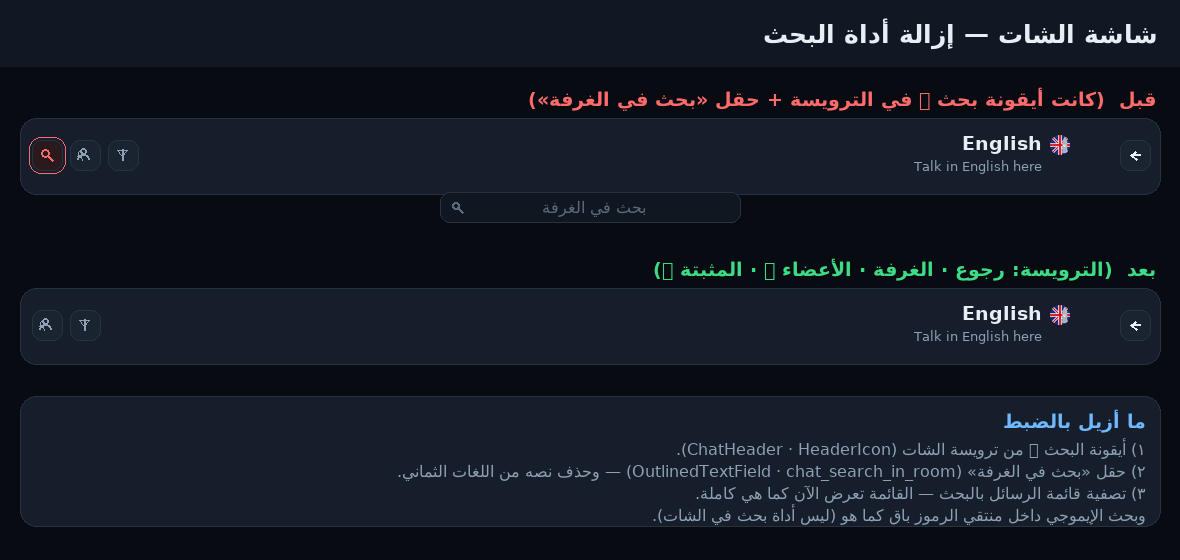
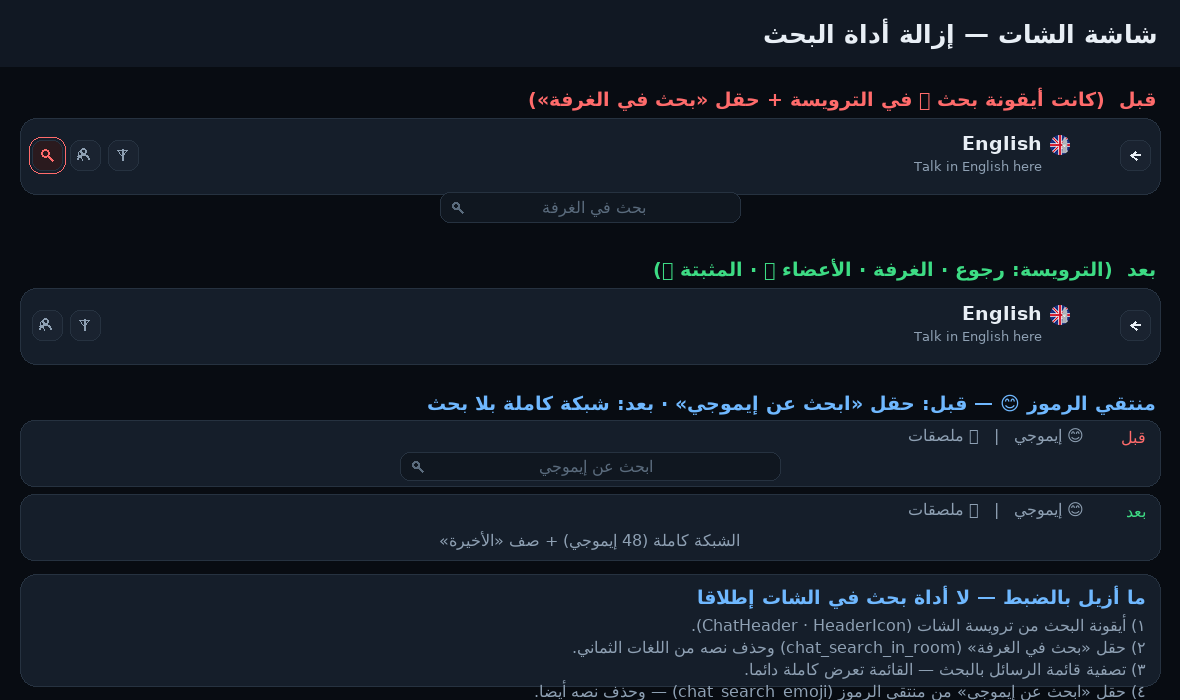
Chat: remove the emoji-picker search field too (no search anywhere in chat)
- EmojiStickerSheet no longer renders the 'search emoji' text field and no longer
  filters the emoji grid; the full grid plus the 'recent' row are shown.
- chat_search_emoji string removed from all 8 languages.
- check_chat_no_search.py now covers the picker as well, spec note extended, and the
  before/after preview shows both the header and the emoji picker.

diff --git a/android/app/src/main/java/com/addonstation/mobile/ui/chat/ChatSheets.kt b/android/app/src/main/java/com/addonstation/mobile/ui/chat/ChatSheets.kt
@@ -85,12 +85,8 @@ fun EmojiStickerSheet(
     val sheetState = rememberModalBottomSheetState(skipPartiallyExpanded = true)
     var tab by remember { mutableStateOf(0) }
     var selectedPack by remember { mutableStateOf<String?>(null) }
-    var search by remember { mutableStateOf("") }
     val recentRaw by container.prefs.recentEmojis.collectAsState(initial = "")
     val recent = recentRaw.split(' ').filter { it.isNotBlank() }
-
-    val filtered = if (search.isBlank()) ChatViewModel_Emojis
-    else ChatViewModel_Emojis.filter { it.contains(search) }
 
     ModalBottomSheet(
         onDismissRequest = onDismiss,
@@ -104,13 +100,6 @@ fun EmojiStickerSheet(
             }
             Spacer(Modifier.height(10.dp))
             if (tab == 0) {
-                androidx.compose.material3.OutlinedTextField(
-                    value = search,
-                    onValueChange = { search = it },
-                    placeholder = { Text(stringResource(R.string.chat_search_emoji), style = AppText.bodySmall) },
-                    singleLine = true,
-                    modifier = Modifier.fillMaxWidth(),
-                )
                 if (recent.isNotEmpty()) {
                     Text(stringResource(R.string.chat_recent), style = AppText.tiny, color = AppColors.Muted)
                     LazyRow(horizontalArrangement = Arrangement.spacedBy(6.dp)) {
@@ -138,7 +127,7 @@ fun EmojiStickerSheet(
                     ),
                     contentPadding = PaddingValues(vertical = 6.dp),
                 ) {
-                    items(filtered) { emoji ->
+                    items(ChatViewModel_Emojis) { emoji ->
                         Text(
                             emoji,
                             style = AppText.welcomeName,

diff --git a/tools/check_chat_no_search.py b/tools/check_chat_no_search.py
@@ -1,12 +1,12 @@
 #!/usr/bin/env python3
 # -*- coding: utf-8 -*-
-"""فحص إزالة أداة البحث من داخل الشات (طلب المستخدم) — ويمنع رجوعها.
+"""فحص إزالة أدوات البحث من داخل الشات (طلب المستخدم) — ويمنع رجوعها.
 
 يفشل إذا:
   • ظهرت أيقونة البحث أو معامل onSearch في ترويسة الشات.
   • بقي حقل «بحث في الغرفة» أو تصفية الرسائل بالبحث في ChatScreen.kt.
-  • بقي مفتاح chat_search_in_room في أي ملف لغة (٨ لغات).
-  • حُذف بحث الإيموجي بالخطأ (يجب أن يبقى داخل منتقي الرموز).
+  • بقي حقل «ابحث عن إيموجي» أو تصفية القائمة في منتقي الرموز (ChatSheets.kt).
+  • بقي مفتاح chat_search_in_room أو chat_search_emoji في أي ملف لغة (٨ لغات).
 """
 import io
 import glob
@@ -42,19 +42,23 @@ for needle, label in (
 if re.search(r"messages\.filter\s*\{", chat):
     problems.append("ChatScreen.kt ما زال يصفّي الرسائل (فلترة بحث)")
 
-# 3) المفتاح محذوف من كل ملفات اللغات
+# 3) بحث منتقي الرموز أيضاً أُزيل
+for needle, label in (
+    ("search", "حالة/حقل البحث"),
+    ("filtered", "تصفية قائمة الإيموجي"),
+    ("chat_search_emoji", "نص «ابحث عن إيموجي»"),
+):
+    if needle in sheets:
+        problems.append(f"ChatSheets.kt (منتقي الرموز) ما زال يحوي {label}")
+
+# 4) المفتاحان محذوفان من كل ملفات اللغات
 left = []
 for path in sorted(glob.glob(os.path.join(RES, "values*", "strings.xml"))):
     text = io.open(path, encoding="utf-8").read()
-    if "chat_search_in_room" in text:
+    if "chat_search_in_room" in text or "chat_search_emoji" in text:
         left.append(os.path.basename(os.path.dirname(path)))
 if left:
-    problems.append("مفتاح chat_search_in_room باقٍ في: " + " · ".join(left))
-
-# 4) بحث الإيموجي باقٍ (لم نحذف أكثر من المطلوب)
-if "chat_search_emoji" not in sheets and "chat_search_emoji" not in io.open(
-        os.path.join(RES, "values", "strings.xml"), encoding="utf-8").read():
-    problems.append("بحث الإيموجي حُذف بالخطأ — يجب أن يبقى داخل منتقي الرموز")
+    problems.append("مفتاح بحث باقٍ في: " + " · ".join(left))
 
 print("الفحص | النتيجة")
 print("-" * 46)
@@ -62,8 +66,8 @@ rows = [
     ("لا أيقونة بحث في ترويسة الشات", "Icons.Filled.Search" not in chat),
     ("لا حقل «بحث في الغرفة»", "chat_search_in_room" not in chat),
     ("لا تصفية رسائل بالبحث", not re.search(r"messages\.filter\s*\{", chat)),
-    ("المفتاح محذوف من 8 لغات", not left),
-    ("بحث الإيموجي باقٍ (منتقي الرموز)", "chat_search_emoji" in sheets),
+    ("منتقي الرموز بلا بحث", not any(x in sheets for x in ("search", "filtered"))),
+    ("المفتاحان محذوفان من 8 لغات", not left),
 ]
 for name, ok in rows:
     print(f"{name:<38} | {'✅' if ok else '❌'}")
@@ -74,4 +78,4 @@ if problems:
         print("✗", p)
     print(f"\n✗ عدد المشاكل: {len(problems)}")
     sys.exit(1)
-print("🟢 أداة البحث أُزيلت من الشات بالكامل (ترويسة وحقل وتصفية)، وبحث الإيموجي باقٍ.")
+print("🟢 لا أداة بحث في الشات إطلاقاً: لا في الترويسة ولا في الرسائل ولا في منتقي الرموز — وبلا أي نص بحث في اللغات الثماني.")

diff --git a/tools/preview_chat_search_removed.py b/tools/preview_chat_search_removed.py
@@ -97,7 +97,7 @@ def header(img, d, f_name, f_desc, x, y, w, title, desc, icons, highlight=None):
 
 
 def main() -> int:
-    W, H = 1180, 560
+    W, H = 1180, 700
     img = Image.new("RGB", (W, H), BG)
     d = ImageDraw.Draw(img)
     f_big = ImageFont.truetype(FONT_BOLD, 25)
@@ -125,16 +125,35 @@ def main() -> int:
            "English", "Talk in English here",
            ["members", "pin"])
 
-    y = 396
-    d.rounded_rectangle((20, y, W - 20, y + 130), radius=16, fill=CARD, outline=BORDER)
-    d.text((W - 34, y + 14), rtl("ما أُزيل بالضبط"), font=f_h, fill=BLUE, anchor="ra")
+    # منتقي الرموز: قبل (بحقل البحث) ← بعد (بلا حقل)
+    d.text((W - 24, 392), rtl("منتقي الرموز 😊 — قُبل: حقل «ابحث عن إيموجي» · بعد: شبكة كاملة بلا بحث"),
+           font=f_h, fill=BLUE, anchor="ra")
+    py = 420
+    for label, with_search, accent in (("قبل", True, RED), ("بعد", False, GREEN)):
+        d.rounded_rectangle((20, py, W - 20, py + 66), radius=14, fill=CARD, outline=BORDER)
+        d.text((W - 34, py + 8), rtl(label), font=f_small, fill=accent, anchor="ra")
+        d.text((W - 96, py + 6), rtl("😊 إيموجي   |   🎨 ملصقات"), font=f_small, fill=MUTED, anchor="ra")
+        if with_search:
+            d.rounded_rectangle((W // 2 - 190, py + 32, W // 2 + 190, py + 60), radius=10,
+                                fill="#101720", outline=BORDER)
+            d.text((W // 2 + 6, py + 46), rtl("ابحث عن إيموجي"), font=f_small, fill=DIM, anchor="mm")
+            mg = mini_icon("search", 14, "#5A6B7D")
+            img.paste(mg, (W // 2 - 180, py + 39), mg)
+        else:
+            d.text((W // 2, py + 46), rtl("الشبكة كاملة (48 إيموجي) + صف «الأخيرة»"),
+                   font=f_small, fill=MUTED, anchor="mm")
+        py += 74
+
+    y = py + 6
+    d.rounded_rectangle((20, y, W - 20, y + 112), radius=16, fill=CARD, outline=BORDER)
+    d.text((W - 34, y + 12), rtl("ما أُزيل بالضبط — لا أداة بحث في الشات إطلاقاً"), font=f_h, fill=BLUE, anchor="ra")
     for i, line in enumerate([
-        "١) أيقونة البحث 🔍 من ترويسة الشات (ChatHeader · HeaderIcon).",
-        "٢) حقل «بحث في الغرفة» (OutlinedTextField · chat_search_in_room) — وحُذف نصه من اللغات الثماني.",
-        "٣) تصفية قائمة الرسائل بالبحث — القائمة تُعرض الآن كما هي كاملة.",
-        "وبحث الإيموجي داخل منتقي الرموز باقٍ كما هو (ليس أداة بحث في الشات).",
+        "١) أيقونة البحث من ترويسة الشات (ChatHeader · HeaderIcon).",
+        "٢) حقل «بحث في الغرفة» (chat_search_in_room) وحُذف نصه من اللغات الثماني.",
+        "٣) تصفية قائمة الرسائل بالبحث — القائمة تُعرض كاملة دائماً.",
+        "٤) حقل «ابحث عن إيموجي» من منتقي الرموز (chat_search_emoji) — وحُذف نصه أيضاً.",
     ]):
-        d.text((W - 34, y + 44 + i * 22), rtl(line), font=f_small, fill=MUTED, anchor="ra")
+        d.text((W - 34, y + 42 + i * 22), rtl(line), font=f_small, fill=MUTED, anchor="ra")
 
     img.save(OUT)
     print(f"✓ {OUT} ({W}×{H})")

diff --git a/docs/specs/AddonStation-Chat-Admin-Spec.md b/docs/specs/AddonStation-Chat-Admin-Spec.md
@@ -224,6 +224,10 @@ Limits (**[ORIGINAL]**):
 ### C6. Emoji + Sticker picker (bottom sheet)
 - Two tabs: **Emoji** and **Stickers**.
 - Emoji tab: grid of emojis (the original list of 48: 😀 😃 😄 😍 😂 🥰 😎 🤣 😅 😇 😉 🤔 😴 🤯 🥳 😢 😭 😡 🤩 👍 👎 👏 🙏 💪 🔥 ❤ 💔 💎 👑 🍃 ⭐ 🎮 🕹 🧊 🏆 ⚽ 🚀 ✨ 🎉 💬 ✅ ❌ 😊 😁 🤝 🧡 💛 💜). Add a search field and "recent" row **[NEW]**.
+
+> تحديث بناءً على طلب المستخدم: **حُذفت كل أدوات البحث من الشات** — أيقونة 🔍 في
+> الترويسة، وحقل «بحث في الغرفة»، وتصفية الرسائل، وحقل «ابحث عن إيموجي» في منتقي
+> الرموز (الشبكة تُعرض كاملة، وصف «الأخيرة» باقٍ). ولا يبقى أي نص بحث في اللغات الثماني.
 - Stickers tab: pack icons row at the bottom (each pack shows its first sticker as icon), grid of stickers of the selected pack above (4 columns). Tap a sticker = send immediately. **[ORIGINAL]**
 - The 5 original packs (names and counts): `meme` (47), `Minecraft Memes1` (21), `Minecraft Memes2` (87), `Minecraft Memes3` (20), `Minecraft Movie` (6). Stickers are 128–256 px WEBP/PNG/GIF. Replace with your own art before publishing.
 - New packs are added by the admin from the panel (Assets → Sticker), not by editing the app.
